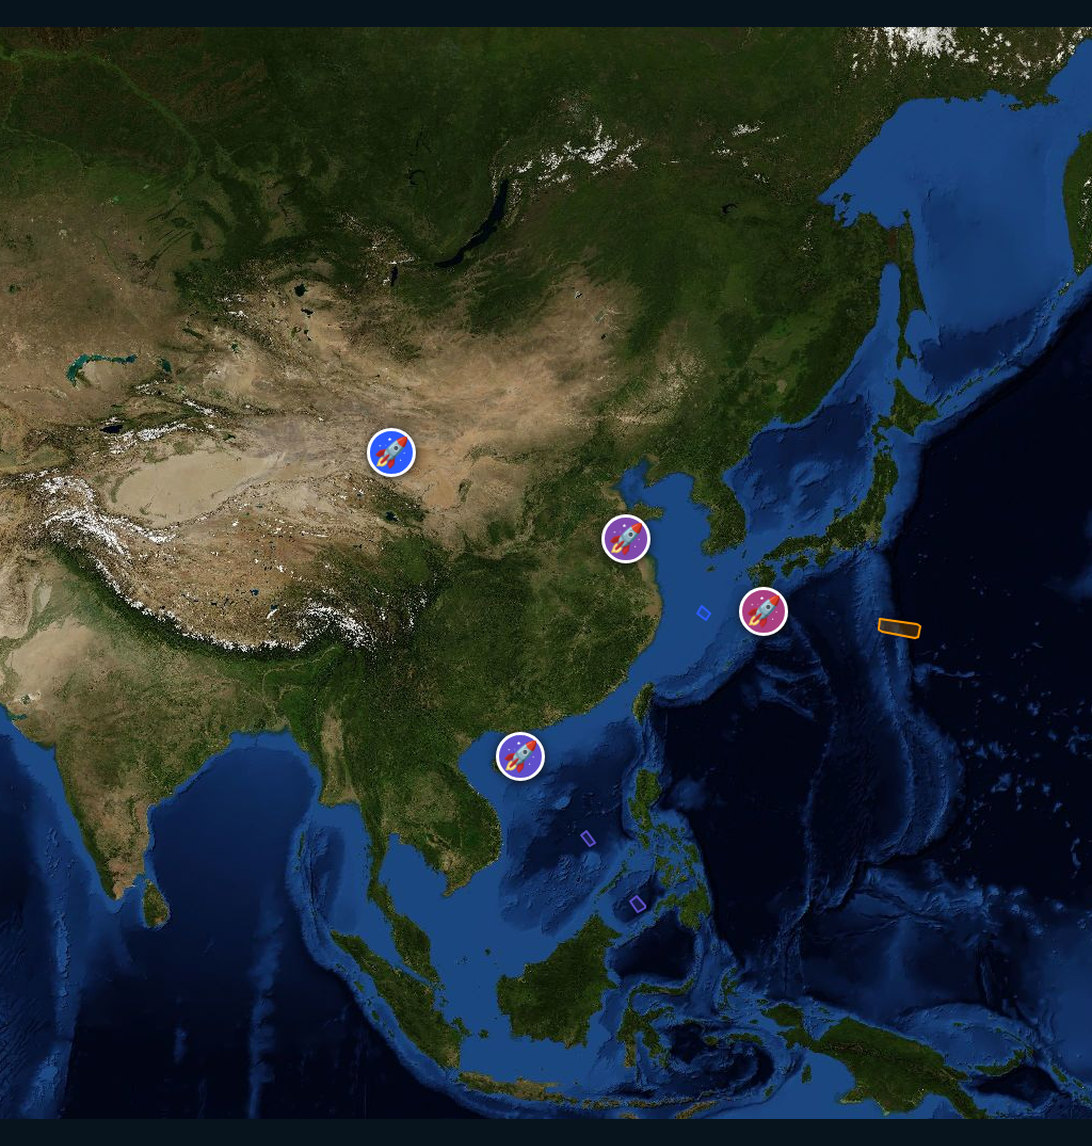
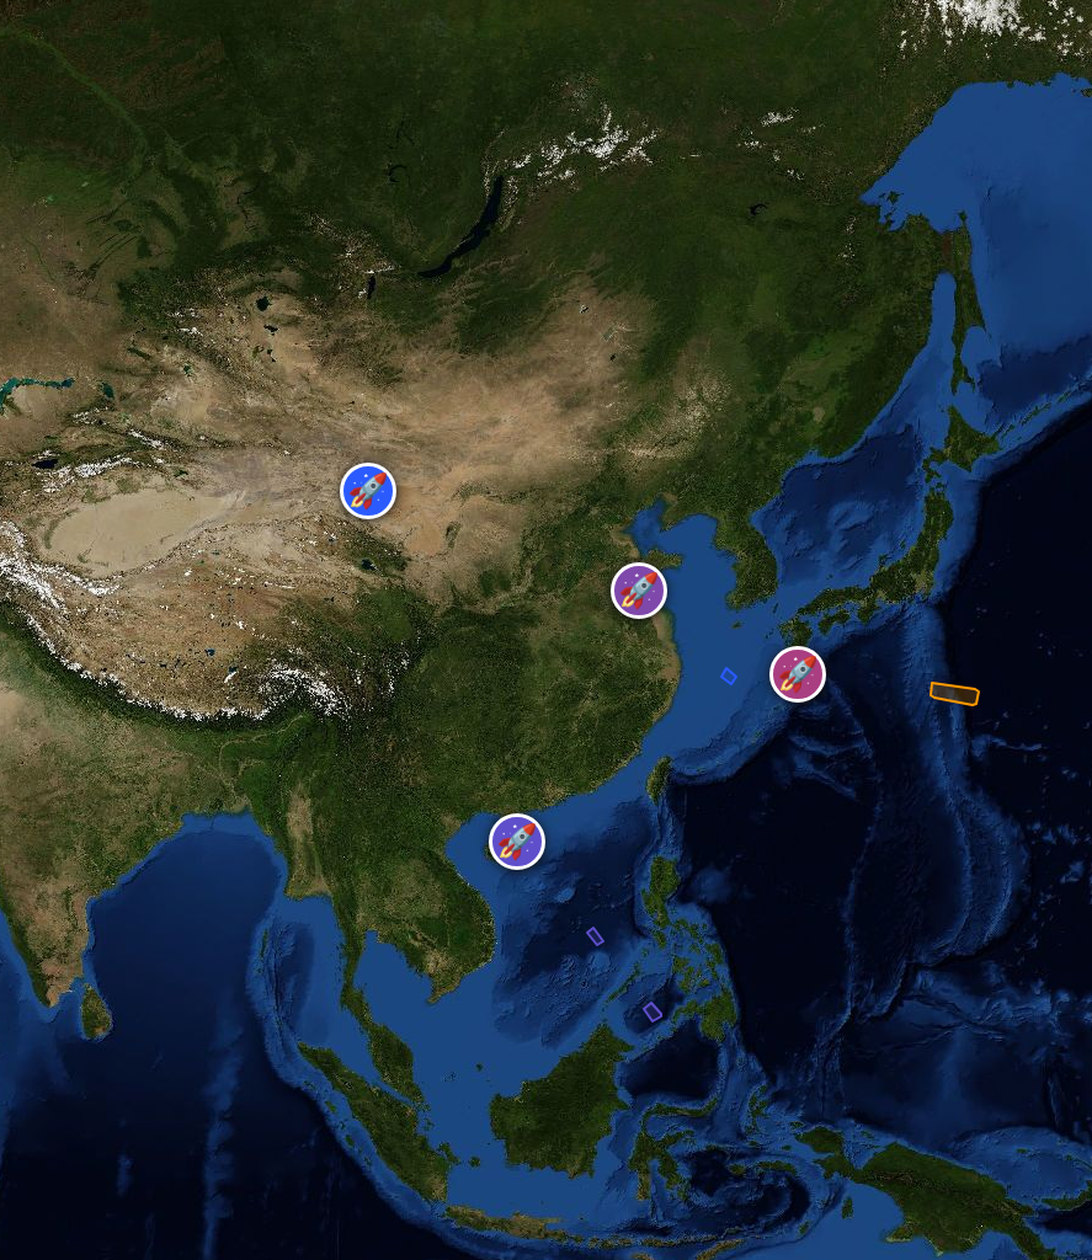
Extend large widget image height to remove bars

diff --git a/widget/index.html b/widget/index.html
@@ -38,7 +38,7 @@
     <div class="downloads">
       <a href="./china-rocket-map-small.swt">下载小号：169×169 pt（507×507 px，3×）</a>
       <a href="./china-rocket-map-medium.swt">下载中号：360×169 pt（1080×507 px，3×）</a>
-      <a href="./china-rocket-map-large.swt">下载大号：364×382 pt（1092×1146 px，3×）</a>
+      <a href="./china-rocket-map-large.swt">下载大号：显示框 364×382 pt；图片 1092×1260 px（宽度不变，纵向扩展约 10%）</a>
     </div>
     <p class="note">三种组件包各自固定匹配一种尺寸。中号图保持同一东西向范围，北缘裁至乌鲁木齐纬度。NASA GIBS Blue Marble（MODIS）作为底图；NASA 建议在网页说明中注明影像来源。图片生成时间不叠加在图上。</p>
     <img id="mapImage" class="preview" alt="中国及周边火箭与航行警告地图预览">

diff --git a/widget/scriptwidget-large/main.jsx b/widget/scriptwidget-large/main.jsx
@@ -1,5 +1,5 @@
-// 中国火箭地图 - 大号 1092×1146（3×）
-// 服务端每 3 小时重绘；图片像素按 iPhone 逻辑尺寸 3x 输出。
+// 中国火箭地图 - 大号 1092×1260（横向不变，纵向扩展约10%）
+// 服务端每 3 小时重绘；图片填满画布，不添加上下黑边。
 const cacheBucket = Math.floor(Date.now() / (3 * 60 * 60 * 1000));
 const imageUrl = `https://rocket.rainywhisper.com/widget/china-widget-large.jpg?v=${cacheBucket}`;
 $render(

diff --git a/scripts/generate_widget_image.py b/scripts/generate_widget_image.py
@@ -24,7 +24,7 @@ LARGE = ROOT / "widget" / "china-widget-large.jpg"
 PREVIEW_SIZE = (1024, 1024)
 SMALL_SIZE = (507, 507)       # 169 x 169 pt at 3x
 MEDIUM_SIZE = (1080, 507)     # 360 x 169 pt at 3x
-LARGE_SIZE = (1092, 1146)     # 364 x 382 pt at 3x
+LARGE_SIZE = (1092, 1260)     # 1092px wide; height extended ~10% to remove letterbox bars
 
 
 class QuietHandler(SimpleHTTPRequestHandler):
@@ -72,11 +72,12 @@ def main() -> None:
             medium_image = render_page(browser, origin + "?size=medium", MEDIUM_SIZE, scratch_medium)
             save_jpeg(medium_image, MEDIUM)
 
-            # Preserve the full square map in the tall WidgetKit family by
-            # letterboxing top/bottom instead of cropping the map content.
-            large_map = square.resize((1092, 1092), resampling)
-            large_canvas = Image.new("RGB", LARGE_SIZE, "#07141e")
-            large_canvas.paste(large_map, (0, 27))
+            # Fill the expanded portrait image without adding black bars.
+            # Center-crop the square map to the target aspect ratio, then scale.
+            crop_width = round(square.height * LARGE_SIZE[0] / LARGE_SIZE[1])
+            left = (square.width - crop_width) // 2
+            large_map = square.crop((left, 0, left + crop_width, square.height))
+            large_canvas = large_map.resize(LARGE_SIZE, resampling)
             save_jpeg(large_canvas, LARGE)
             browser.close()
     finally:

diff --git a/widget/README.md b/widget/README.md
@@ -5,7 +5,7 @@
 - 网页地图预览图：`https://rocket.rainywhisper.com/widget/china-square.png`
 - 小号 ScriptWidget 包（169×169 pt，@3x，507×507 px）：`https://rocket.rainywhisper.com/widget/china-rocket-map-small.swt`
 - 中号 ScriptWidget 包（360×169 pt，@3x，1080×507 px）：`https://rocket.rainywhisper.com/widget/china-rocket-map-medium.swt`
-- 大号 ScriptWidget 包（364×382 pt，@3x，1092×1146 px）：`https://rocket.rainywhisper.com/widget/china-rocket-map-large.swt`
+- 大号 ScriptWidget 包（显示框 364×382 pt；图片 1092×1260 px，宽度不变、纵向扩展约 10%）：`https://rocket.rainywhisper.com/widget/china-rocket-map-large.swt`
 - 三个包分别固定支持 `systemSmall` / `systemMedium` / `systemLarge`，按 iPhone 上准备添加的尺寸导入。
 - 中号图采用 360×169 pt 比例，东西向区域跨度与方图一致，北缘到乌鲁木齐约 43.8°N。
 - 小组件图每 3 小时由服务端重绘；iOS 实际刷新时点由系统调度。
